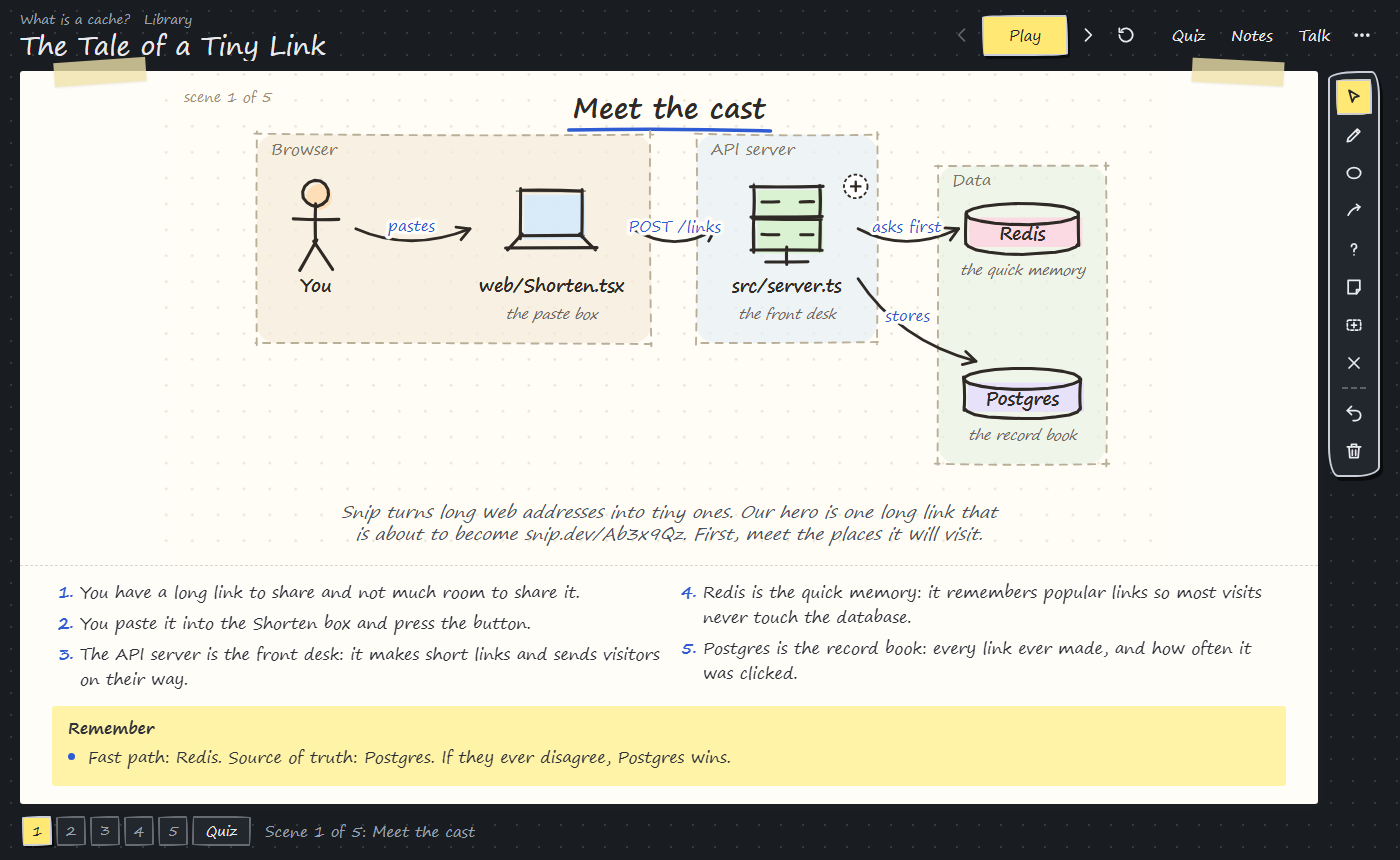
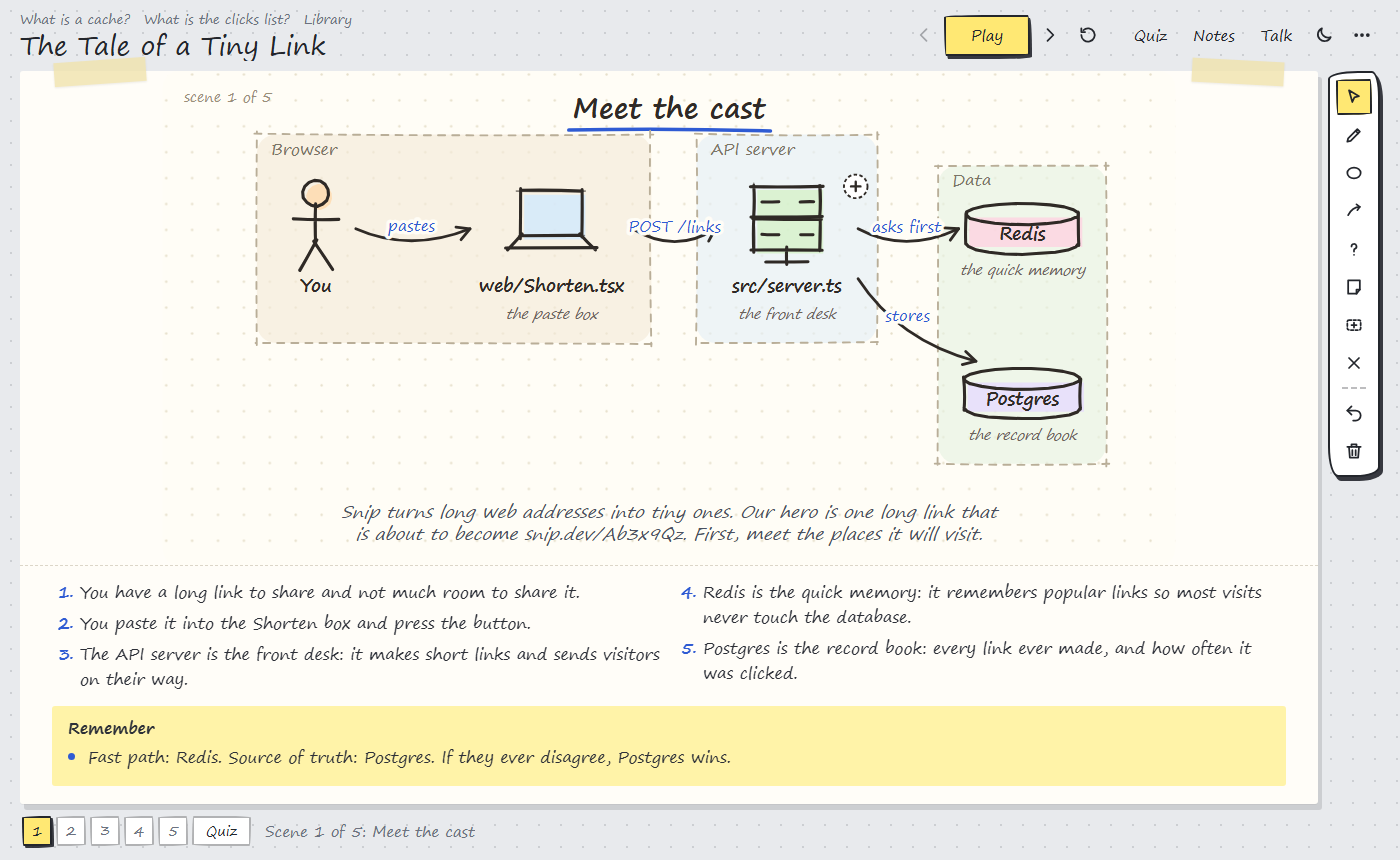
Live mode feedback, instant answers, light/dark toggle, light screenshots
- Live: the page shows "your agent is working on it" from the moment a
  message is delivered until the reply lands, and answers instantly from the
  story itself when a question names a part the story explains. Parent pages
  reload when a new zoom or concept story appears under them.
- Theme: a light/dark toggle (remembered), also for the library index;
  `#theme=light|dark` links.
- Example: a "What is the clicks list?" concept story.
- README and all screenshots refreshed, in light mode.

Changed region(s): [[0.0, 0.0, 1.0, 1.0]]

diff --git a/skills/founds-doodle/scripts/player.html b/skills/founds-doodle/scripts/player.html
@@ -16,9 +16,8 @@
     --sans: "Segoe UI Variable Text", "Segoe UI", -apple-system, BlinkMacSystemFont, "Helvetica Neue", Arial, sans-serif;
     --mono: ui-monospace, "Cascadia Code", Consolas, Menlo, monospace;
   }
-  @media (prefers-color-scheme: dark) {
-    :root { --desk: #191c21; --panel: #22262d; --ink: #e8eaed; --muted: #9aa1ad; --line: #333944; --soft: #2a2f37; --pen: #6d93f2; --pen-ink: #0f1420; }
-  }
+  @media (prefers-color-scheme: dark) { :root:not([data-theme="light"]) { --desk: #191c21; --panel: #22262d; --ink: #e8eaed; --muted: #9aa1ad; --line: #333944; --soft: #2a2f37; --pen: #6d93f2; --pen-ink: #0f1420; } }
+  :root[data-theme="dark"] { --desk: #191c21; --panel: #22262d; --ink: #e8eaed; --muted: #9aa1ad; --line: #333944; --soft: #2a2f37; --pen: #6d93f2; --pen-ink: #0f1420; }
   * { box-sizing: border-box; }
   html, body { margin: 0; background: var(--desk); color: var(--ink); font: 15px/1.5 var(--sans); -webkit-font-smoothing: antialiased; }
   body { height: 100vh; height: 100dvh; display: flex; flex-direction: column; overflow: hidden; }
@@ -201,7 +200,8 @@
     --wob3: 30px 8px 24px 10px / 8px 26px 10px 30px;
     --stroke: #23262c; --cast: rgba(35, 38, 44, .9);
   }
-  @media (prefers-color-scheme: dark) { :root { --stroke: #c9ced8; --cast: rgba(0, 0, 0, .55); } }
+  @media (prefers-color-scheme: dark) { :root:not([data-theme="light"]) { --stroke: #c9ced8; --cast: rgba(0, 0, 0, .55); } }
+  :root[data-theme="dark"] { --stroke: #c9ced8; --cast: rgba(0, 0, 0, .55); }
   body { background-color: var(--desk); background-image: radial-gradient(color-mix(in srgb, var(--ink) 14%, transparent) 1px, transparent 1.4px); background-size: 22px 22px; }
   h1 { font-size: 26px; }
   .bar button, .tabs button, #dots button, #moreMenu button, #moreMenu a, .actions-row button, #quiz button, #card button, #noteForm button, .sheet h2, .sheet h3, #sceneName, #hint, #toast, #links { font-family: var(--hand); }
@@ -244,6 +244,13 @@
   .msg { border-radius: var(--wob3); }
   .msg.you { background: color-mix(in srgb, var(--hl) 22%, var(--panel)); }
   .msg.agent { box-shadow: none; border: 2px solid color-mix(in srgb, var(--ink) 22%, transparent); }
+  .msg.thinking { color: var(--muted); font-family: var(--hand); }
+  .msg.story { border-style: dashed; background: color-mix(in srgb, var(--hl) 14%, var(--panel)); }
+  .dots3 i { font-style: normal; animation: blink 1.2s infinite both; }
+  .dots3 i:nth-child(2) { animation-delay: .2s; }
+  .dots3 i:nth-child(3) { animation-delay: .4s; }
+  @keyframes blink { 0%, 80%, 100% { opacity: .15; } 40% { opacity: 1; } }
+  @media (prefers-reduced-motion: reduce) { .dots3 i { animation: none; } }
   .actions-row button:not(.primary) { text-decoration: underline wavy color-mix(in srgb, var(--pen) 50%, transparent); text-underline-offset: 4px; }
   #hint { background: var(--hl); color: #23262c; border: 2px solid #23262c; border-radius: var(--wob1); box-shadow: 2px 2px 0 rgba(35,38,44,.85); font-size: 14px; }
   #toast { background: var(--hl); color: #23262c; border: 2px solid #23262c; border-radius: var(--wob1); box-shadow: 3px 3px 0 rgba(35,38,44,.85); }
@@ -289,6 +296,7 @@
     <button id="quizBtn" title="Test yourself on the whole story">Quiz</button>
     <button id="notesBtn" title="Your notes on this scene (N)">Notes</button>
     <button id="talkBtn" title="Talk to your agent (T)">Talk</button>
+    <button id="themeBtn" class="icon" title="Light or dark" aria-label="Switch between light and dark"><svg viewBox="0 0 24 24"><path d="M20 14.5A8 8 0 0 1 9.5 4a8 8 0 1 0 10.5 10.5z"/></svg></button>
     <div class="more">
       <button id="moreBtn" class="icon" aria-label="More" title="More"><svg viewBox="0 0 24 24"><circle cx="5" cy="12" r="1.2"/><circle cx="12" cy="12" r="1.2"/><circle cx="19" cy="12" r="1.2"/></svg></button>
       <div id="moreMenu" hidden>
@@ -360,6 +368,29 @@
   const story = parseStory(JSON.stringify(/*__STORY__*/null))
   if (!story) { document.body.textContent = 'This doodle story could not be read.'; return }
   const n = story.scenes.length
+  // light or dark: the reader's choice wins over the system's, and is remembered
+  const THEME_KEY = 'doodle-theme'
+  let theme = ''
+  try { theme = localStorage.getItem(THEME_KEY) || '' } catch {}
+  const asked = new URLSearchParams(location.hash.slice(1)).get('theme')
+  if (asked === 'light' || asked === 'dark') theme = asked
+  const applyTheme = () => {
+    if (theme) document.documentElement.dataset.theme = theme
+    else delete document.documentElement.dataset.theme
+    const dark = theme ? theme === 'dark' : matchMedia('(prefers-color-scheme: dark)').matches
+    const btn = document.getElementById('themeBtn')
+    btn.innerHTML = dark
+      ? '<svg viewBox="0 0 24 24"><circle cx="12" cy="12" r="4"/><path d="M12 2v2M12 20v2M4.9 4.9l1.4 1.4M17.7 17.7l1.4 1.4M2 12h2M20 12h2M4.9 19.1l1.4-1.4M17.7 6.3l1.4-1.4"/></svg>'
+      : '<svg viewBox="0 0 24 24"><path d="M20 14.5A8 8 0 0 1 9.5 4a8 8 0 1 0 10.5 10.5z"/></svg>'
+    btn.title = dark ? 'Switch to light' : 'Switch to dark'
+  }
+  applyTheme()
+  document.getElementById('themeBtn').onclick = () => {
+    const dark = theme ? theme === 'dark' : matchMedia('(prefers-color-scheme: dark)').matches
+    theme = dark ? 'light' : 'dark'
+    try { localStorage.setItem(THEME_KEY, theme) } catch {}
+    applyTheme()
+  }
   const PAGE = '<!doctype html>\n' + document.documentElement.outerHTML
   const SOURCE = /*__SOURCE__*/null
   const KNOWN = /*__KNOWN__*/null || {}
@@ -378,7 +409,7 @@
   const save = () => { try { localStorage.setItem(KEY, JSON.stringify({ marks, journal })) } catch {} }
   const escText = t => String(t).replace(/[<&]/g, c => (c === '<' ? '&lt;' : '&amp;'))
   // live mode: the page was opened from `doodle.mjs serve`, so it can talk to the agent directly
-  let live = false, listening = false, pendingNew = null
+  let live = false, listening = false, working = false, waitingCount = 0, pendingNew = null
   let thread = []
   const TALK = [
     ['ask', 'Ask', 'Ask about this scene. Your drawing goes with it.'],
@@ -775,10 +806,15 @@
       b.onclick = () => { talk = m; ui() }
       $('talkModes').append(b)
     }
-    $('live').className = live ? (listening ? 'on' : 'wait') : ''
-    $('live').textContent = !live ? '' : listening
-      ? '● Live: your agent is listening.'
-      : '○ Live: your agent picks messages up when it next listens.'
+    $('live').className = live ? (working || listening ? 'on' : 'wait') : ''
+    $('live').textContent = !live ? '' : working
+      ? '✎ Your agent is working on your message…'
+      : listening
+        ? '● Live: your agent is listening. Send away.'
+        : waitingCount
+          ? '○ Sent. Your agent will pick it up as soon as it checks in.'
+          : '○ Live: your agent checks in when it is ready for your next message.'
+    $('thread').classList.toggle('working', live && working)
     $('sendLive').hidden = !live
     $('copy').className = live ? '' : 'primary'
     $('copy').textContent = { quiz: 'Copy quiz request', check: 'Copy for checking', change: 'Copy change prompt', term: 'Copy explain request' }[talk] || 'Copy message'
@@ -1145,8 +1181,15 @@
     host.innerHTML = ''
     for (const it of thread.slice(-40)) {
       const d = document.createElement('div')
-      d.className = 'msg ' + (it.from === 'agent' ? 'agent' : 'you')
-      d.innerHTML = `<b>${it.from === 'agent' ? 'Agent' : 'You'}${it.scene ? ` · scene ${it.scene}` : ''}</b>${escText(it.display || it.text)}`
+      d.className = 'msg ' + (it.from === 'agent' ? 'agent' : it.from === 'story' ? 'agent story' : 'you')
+      const who = it.from === 'agent' ? 'Agent' : it.from === 'story' ? 'From the story, right away' : 'You'
+      d.innerHTML = `<b>${who}${it.scene ? `, scene ${it.scene}` : ''}</b>${escText(it.display || it.text)}`
+      host.append(d)
+    }
+    if (live && working) {
+      const d = document.createElement('div')
+      d.className = 'msg agent thinking'
+      d.innerHTML = '<b>Agent</b>Working on it<span class="dots3"><i>.</i><i>.</i><i>.</i></span>'
       host.append(d)
     }
     host.scrollTop = host.scrollHeight
@@ -1160,7 +1203,8 @@
         body: JSON.stringify({ story: story.id, scene: i + 1, text, display }),
       })
       const d = await r.json()
-      toast(d.delivered ? 'Sent. Your agent is on it.' : 'Sent. Your agent will pick it up when it listens.')
+      working = !!d.delivered
+      toast(d.delivered ? 'Sent. Your agent is on it.' : 'Sent. Your agent picks it up as soon as it checks in.')
       $('q').value = ''
       ui()
     } catch {
@@ -1173,13 +1217,37 @@
     const marks = drawn().length
     return `${label}${q ? `: ${q}` : ''}${marks ? `\n(${marks} mark${marks === 1 ? '' : 's'} on the scene)` : ''}`
   }
-  $('sendLive').onclick = () => deliver(message(), shortAsk())
+  // An instant first answer from the story itself, while the agent writes the full one:
+  // any part the question names that the story already explains.
+  function quickAnswer() {
+    const q = ($('q').value + ' ' + (subject ? name(subject) : '')).toLowerCase()
+    if (q.trim().length < 3) return null
+    const words = q.split(/[^a-z0-9_./:-]+/).filter(w => w.length > 2)
+    for (const [si, sc] of story.scenes.entries()) {
+      for (const nd of sc.nodes) {
+        const label = nd.label.toLowerCase()
+        const base = label.replace(/\(\)$/, '').split('/').pop().replace(/\.[a-z]+$/, '')
+        const hit = q.includes(label) || (base.length > 3 && words.some(w => w === base || (w.length > 4 && base.startsWith(w))))
+        const text = nd.details || nd.step
+        if (hit && text) return { from: 'story', story: story.id, scene: si + 1, display: `${nd.label}: ${text}`, text: '' }
+      }
+    }
+    return null
+  }
+  $('sendLive').onclick = () => {
+    const quick = live && (talk === 'ask' || talk === 'term') ? quickAnswer() : null
+    deliver(message(), shortAsk())
+    if (quick) setTimeout(() => { thread.push(quick); renderThread() }, 400)
+  }
   async function connect() {
     if (!location.protocol.startsWith('http')) return
     try {
       const r = await fetch('/api/ping')
       if (!r.ok) return
-      listening = (await r.json()).listening
+      const st = await r.json()
+      listening = st.listening
+      working = !!st.working
+      waitingCount = st.waiting || 0
       live = true
     } catch {
       return
@@ -1188,7 +1256,14 @@
     renderThread()
     ui()
     const es = new EventSource('/api/events')
-    es.addEventListener('status', e => { listening = JSON.parse(e.data).listening; ui() })
+    es.addEventListener('status', e => {
+      const st = JSON.parse(e.data)
+      listening = st.listening
+      working = !!st.working
+      waitingCount = st.waiting || 0
+      ui()
+      renderThread()
+    })
     es.addEventListener('thread', e => {
       const it = JSON.parse(e.data)
       if (it.story && it.story !== story.id) return

diff --git a/README.md b/README.md
@@ -80,6 +80,10 @@ Every story lives in `.doodle/` in your project with an `index.html` library. De
 
 ![The library](docs/8-library.png)
 
+## Look and feel
+
+A sketchbook on a desk: the story is a sheet of paper taped down, the tools are an inked rail beside it, scenes are a numbered track, and Notes and Talk slide in only when you open them. The ☾ button switches between **light and dark** (it starts from your system setting and remembers your choice). Keyboard: `←` `→` scenes, `Space` play, `R` replay, `P` pen, `N` notes, `T` talk.
+
 ## Any depth
 
 | Level | Ask for | You get |
@@ -107,6 +111,7 @@ What you and the agent settle shows up under **What we figured out** in the scen
 When your agent can keep a command running (Claude Code can, in the background), it starts a small local server and the page gets a **Send to agent** button:
 
 - you press **Send to agent**, and your message, drawing included, goes straight to the agent;
+- the page answers what it can **right away** from the story itself (ask "what does Redis do?" and you instantly get the story's own explanation of Redis), and shows **"your agent is working on it"** until the full answer arrives;
 - the agent answers in your chat **and** in a chat thread on the page;
 - when the agent updates the story (a correction, a note you agreed on), the page reloads by itself and keeps your drawings and notes.
 
